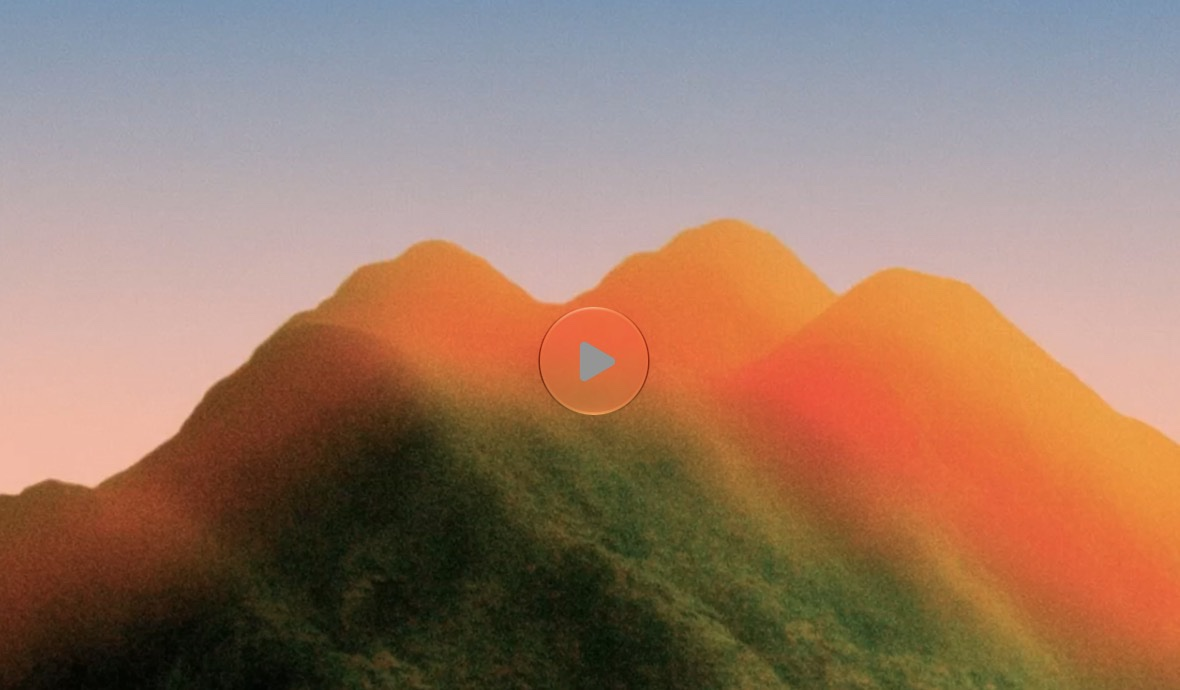
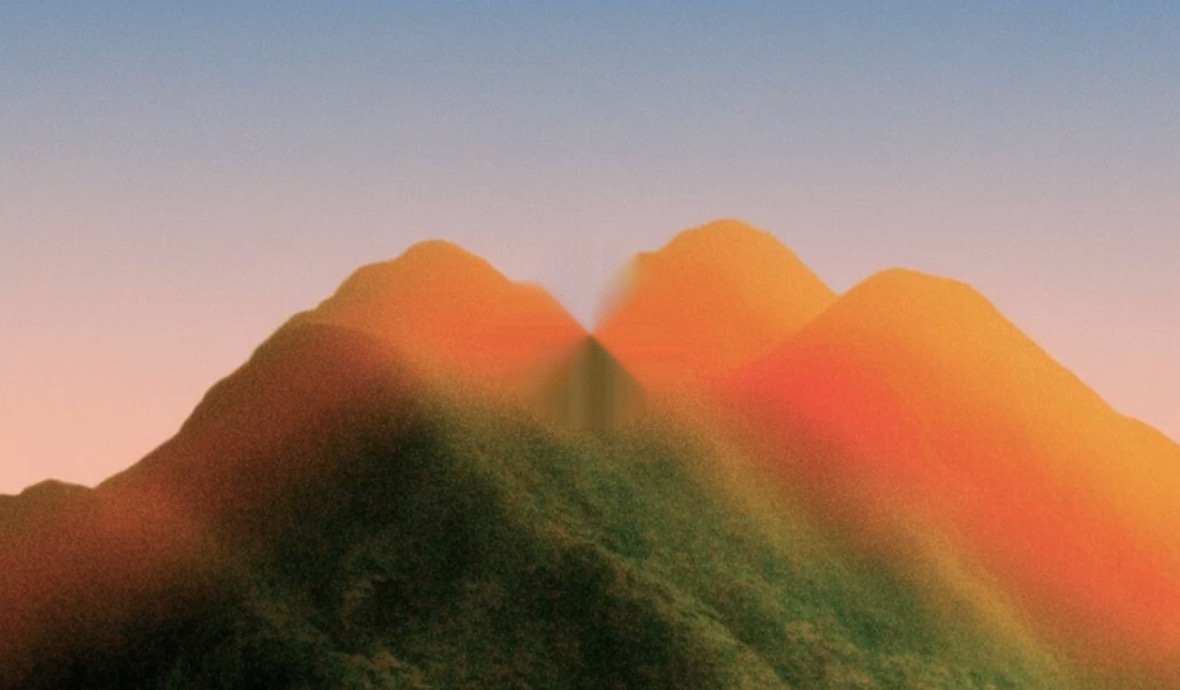
Remove hero video play controls and use clean landscape
Drop the glass play button overlay and use a button-free version
of the landscape as the static hero background.

Changed region(s): [[0.4271, 0.3652, 0.5492, 0.6087]]

diff --git a/css/styles.css b/css/styles.css
@@ -405,46 +405,6 @@ button {
   to { transform: translate3d(1.5%, -1%, 0) scale(1.05); opacity: 1; }
 }
 
-/* Glass play button — the effect from the reference image */
-.hero__play {
-  position: absolute;
-  top: 42%;
-  left: 50%;
-  z-index: 2;
-  translate: -50% -50%;
-  width: clamp(72px, 9vw, 96px);
-  height: clamp(72px, 9vw, 96px);
-  border-radius: 50%;
-  display: grid;
-  place-items: center;
-  background: rgba(255, 255, 255, 0.16);
-  border: 1px solid rgba(255, 255, 255, 0.42);
-  backdrop-filter: blur(18px) saturate(1.2);
-  -webkit-backdrop-filter: blur(18px) saturate(1.2);
-  box-shadow: 0 8px 32px rgba(20, 18, 11, 0.18);
-  color: rgba(237, 236, 236, 0.92);
-  transition: transform 0.35s var(--ease-out), background 0.25s, border-color 0.25s;
-  animation: playFloat 4.5s ease-in-out infinite;
-}
-.hero__play:hover {
-  transform: scale(1.06);
-  background: rgba(255, 255, 255, 0.26);
-  border-color: rgba(255, 255, 255, 0.65);
-}
-.hero__play:focus-visible {
-  outline: 2px solid #fff;
-  outline-offset: 4px;
-}
-.hero__play svg {
-  width: 28%;
-  height: 28%;
-  margin-left: 6%;
-}
-@keyframes playFloat {
-  0%, 100% { translate: -50% calc(-50% + 0px); }
-  50% { translate: -50% calc(-50% - 6px); }
-}
-
 .hero__content {
   position: relative;
   z-index: 3;
@@ -750,5 +710,5 @@ button {
   }
   .reveal { opacity: 1; transform: none; }
   .hero__brand-mark, .hero__title, .hero__text, .hero__cta { opacity: 1; animation: none; }
-  .hero__media img, .hero__bloom, .hero__play { animation: none; }
+  .hero__media img, .hero__bloom { animation: none; }
 }

diff --git a/index.html b/index.html
@@ -60,7 +60,7 @@
   </header>
 
   <main id="main">
-    <!-- HERO: user's landscape + glass play + official brand -->
+    <!-- HERO: landscape background (без видео / play) -->
     <section class="hero" id="top" aria-labelledby="hero-title">
       <div class="hero__media" aria-hidden="true">
         <picture>
@@ -70,12 +70,6 @@
       </div>
       <div class="hero__veil" aria-hidden="true"></div>
       <div class="hero__bloom" aria-hidden="true"></div>
-
-      <a class="hero__play" href="https://cursor.com" target="_blank" rel="noopener noreferrer" aria-label="Открыть Cursor">
-        <svg viewBox="0 0 24 24" fill="currentColor" aria-hidden="true">
-          <path d="M8 5.5v13l11-6.5-11-6.5z"/>
-        </svg>
-      </a>
 
       <div class="hero__content">
         <img
